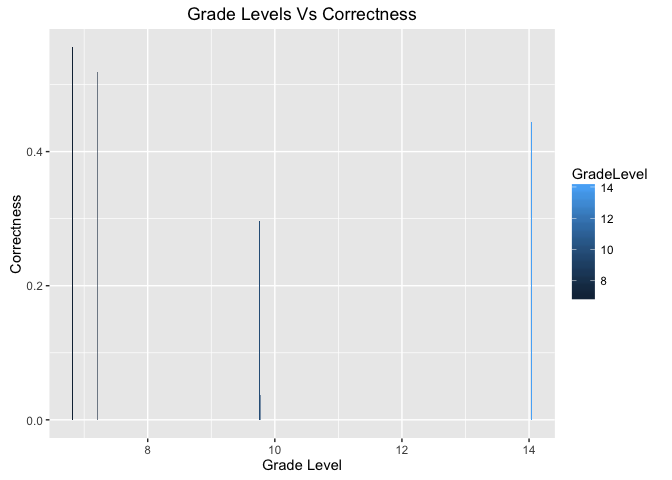
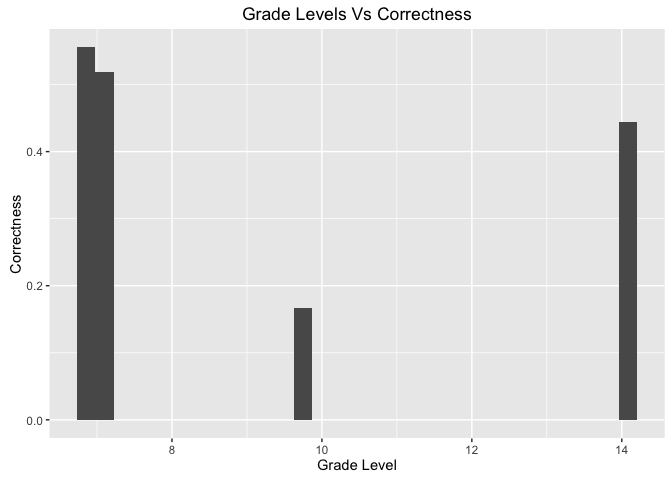
Modified Analysis

diff --git a/analysis/results/MarkdownAnalysis/GeneratedMarkdown.md b/analysis/results/MarkdownAnalysis/GeneratedMarkdown.md
@@ -211,7 +211,7 @@ summary(filterNotificationGradeLevels)
 ``` r
 #grade_level_data <- aggregate(Correct~GradeLevel, data=filterNotificationGradeLevels, #FUN=function(filterNotificationGradeLevels) c(mean=mean(filterNotificationGradeLevels), #count=length(filterNotificationGradeLevels)))
 
-ggplot(filterNotificationGradeLevels, aes(x=GradeLevel, y=Correct, fill=GradeLevel)) +  stat_summary(fun.y="mean", geom ="bar") + ggtitle("Grade Levels Vs Correctness") + labs(x="Grade Level", y ="Correctness")
+ggplot(filterNotificationGradeLevels, aes(x=GradeLevel, y=Correct)) +  stat_summary_bin(fun.y="mean", geom ="bar") + ggtitle("Grade Levels Vs Correctness") + labs(x="Grade Level", y ="Correctness")
 ```
 
 ![](GeneratedMarkdown_files/figure-markdown_github/analysis9-1.png)
